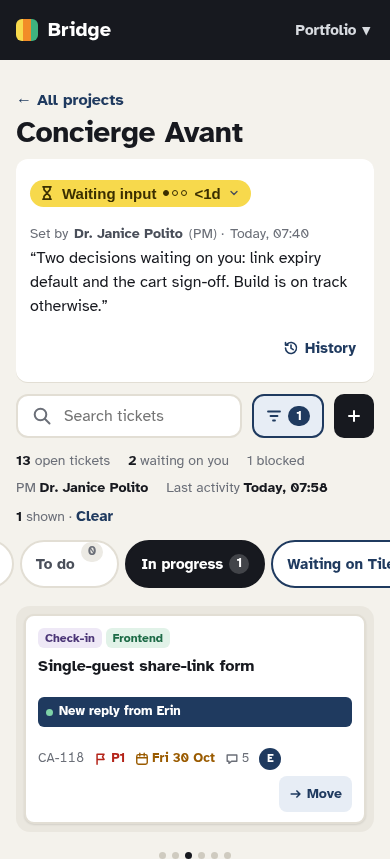
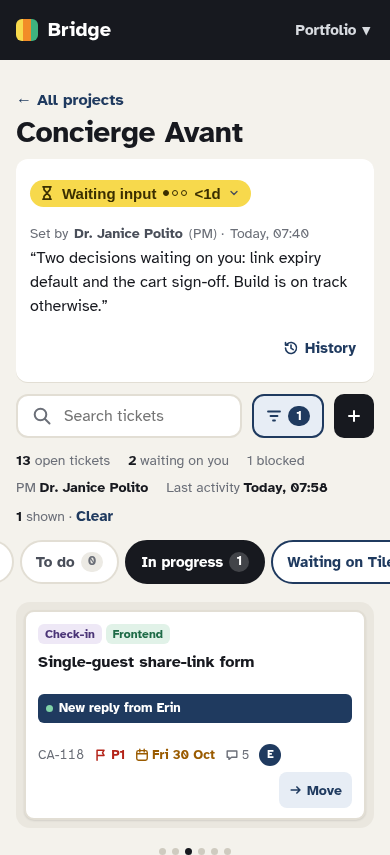
Kanban: zero tab count modifier .cnt.zero -> .cnt.is0 (clashed with usage.css .zero); inline-pill browser asserts; reshoot filter-result 680/390

diff --git a/resources/css/kanban.css b/resources/css/kanban.css
@@ -417,9 +417,9 @@ body.kdragging,body.kdragging *{cursor:grabbing!important;user-select:none}
   .sheet .sform .qact{flex-direction:column;align-items:stretch}
   .sheet .sform .qact .btn,.sheet .sform .qact .abtn{width:100%;justify-content:center;min-height:48px}
   .fbtn .cnt{display:none}
-  .ctabs button .cnt.zero{color:var(--ink3)}
-  .ctabs button[aria-selected=true] .cnt.zero{color:#ffffffb3}
-  .ctabs button.wt .cnt.zero{background:var(--arch-bg);color:var(--ink3)}
+  .ctabs button .cnt.is0{color:var(--ink3)}
+  .ctabs button[aria-selected=true] .cnt.is0{color:#ffffffb3}
+  .ctabs button.wt .cnt.is0{background:var(--arch-bg);color:var(--ink3)}
   @media (max-width:720px){
     .fbtn .cnt{display:inline-block;font-size:13px;font-weight:700;line-height:1.4;background:var(--accent);color:#fff;border-radius:99px;padding:1px 8px}
     .btools .fbtn{gap:6px}

diff --git a/resources/js/Pages/Board.tsx b/resources/js/Pages/Board.tsx
@@ -469,7 +469,7 @@ function Board({ board, statusHistory, people, labels, doneAll, ticket, now }: P
             {visible.map((c) => (
               <button key={c.key} id={`tab-${c.key}`} role="tab" type="button" className={c.key === WAITING ? 'wt' : ''} aria-selected={c.key === tab}
                 aria-controls={`col-${c.key}`} tabIndex={c.key === tab ? 0 : -1} onClick={() => setTab(c.key)} onKeyDown={tabKey}>
-                {c.label}<span className={`cnt${c.tickets.length === 0 ? ' zero' : ''}`}>{c.tickets.length}</span>
+                {c.label}<span className={`cnt${c.tickets.length === 0 ? ' is0' : ''}`}>{c.tickets.length}</span>
               </button>
             ))}
           </div>

diff --git a/shots/kanban/README.md b/shots/kanban/README.md
@@ -31,7 +31,7 @@ The real clock was Thu 29 Oct 2026, about 09:00 CET, the same day as the mocks, 
 | `states-status-menu-1440/390.png` | Tommy review a | Status menu: under the whole status card on desktop, a sheet on mobile. The checked radio has focus, the note is empty with "Janice’s note: …" above it, and Save is disabled (viewport) |
 | `states-status-error-1440/390.png` | Tommy review a7 | Save fails (500 injected in the browser): "✕ Couldn’t save the status. Your note is kept.", and the form stays open with the note (viewport) |
 | `states-filter-1440/390.png` | Tommy review b | Filters: a popover under Filter on desktop, the "Filter tickets" sheet at 390. Assignee has focus (viewport) |
-| `states-filter-result-1440/390.png` | Tommy review b4/b5 | "New replies for you" on: only CA-118 is left. At 390 the board jumps to In progress, empty tabs show a grey 0 and the icon-only Filter button shows a count badge |
+| `states-filter-result-1440/680/390.png` | Tommy review b4/b5 | "New replies for you" on: only CA-118 is left. At 390 the board jumps to In progress, empty tabs show a grey 0 inline with the other counts (`.cnt.is0`; it used to match the global `.zero` from usage.css and float up, Tommy 29 Oct) and the icon-only Filter button shows a count badge |
 | `states-move-undo-390.png` | — (SPEC §4) | After a Move-sheet move: the toast with Undo (viewport) |
 | `states-move-error-1440.png` | — (SPEC §4) | A move whose request fails (500 injected in the browser): the card is back in Backlog, error toast "Couldn’t move CA-133. Try again." (viewport) |
 | `states-input-sent-1440/390.png` | `states-*` §5 | After "Send to Janice": SENT box, and the Tilen's-input bubble with the amber ack line |
@@ -50,7 +50,7 @@ Added for this round: **Overlay edge**, meaning no element inside a sheet, popov
 | `states-status-menu-1440/390` | 0 | none | none | loaded | none |
 | `states-status-error-1440/390` | 0 | none | none | loaded | none |
 | `states-filter-1440/390` | 0 | none | none | loaded | none |
-| `states-filter-result-1440/390` | 0 | none | none | loaded | none |
+| `states-filter-result-1440/680/390` | 0 | none | none | loaded | none |
 | `states-ask-1440/390`, `states-ask-error-1440/390` | 0 | none | none | loaded | none |
 | `states-move-sheet-390`, `states-move-undo-390`, `states-move-error-1440` | 0 | none | none | loaded | none |
 | `board-1440/390`, `states-toast-*`, `states-history-*`, `states-drag-1440`, `states-keyboard-1440`, `ticket-*`, `states-input-sent-*`, `states-new-divider-*`, `portfolio-*` | 0 | none | none | loaded | none |
